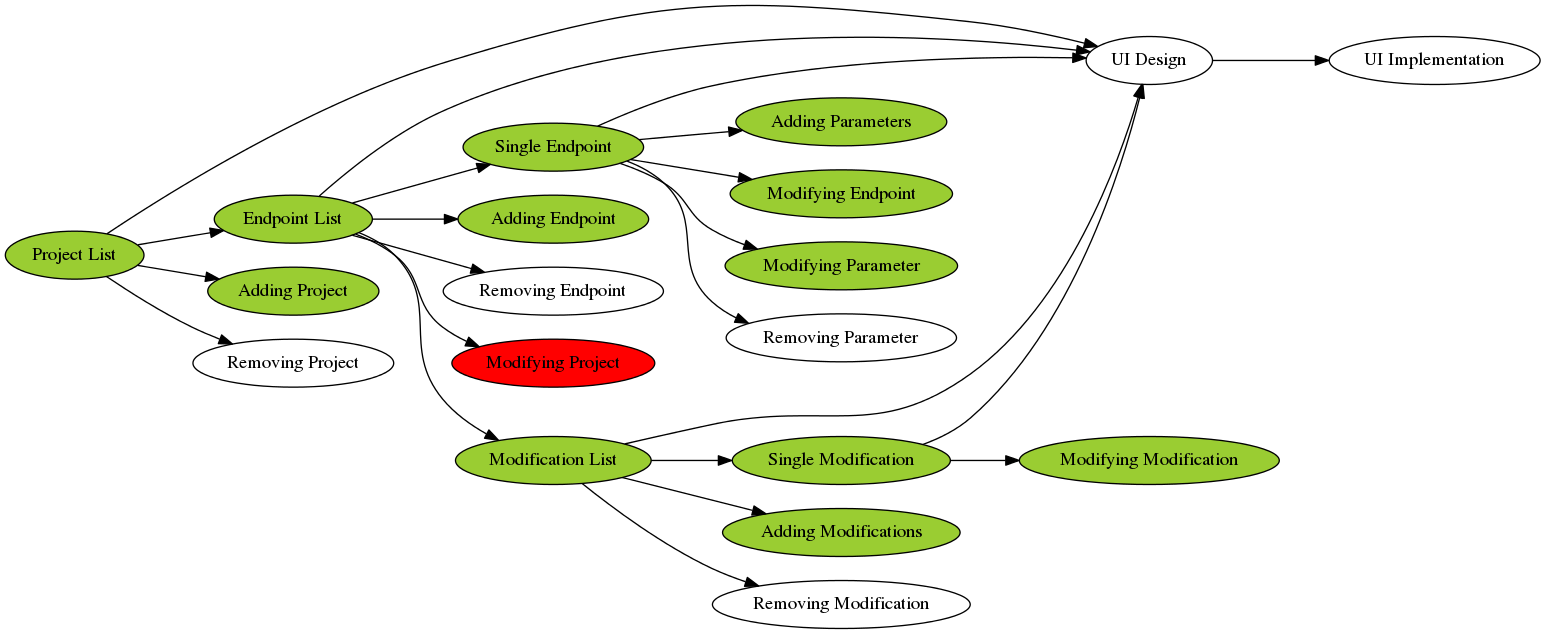
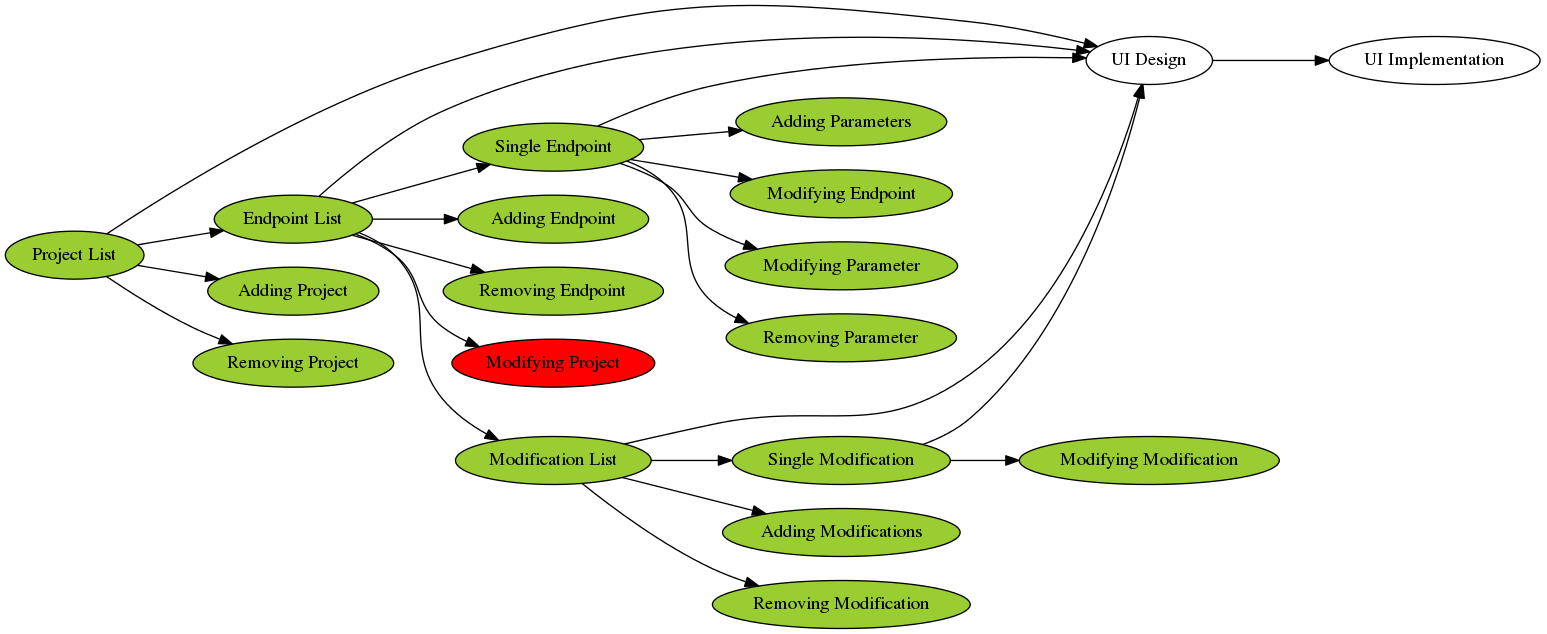
Removing projects, endpoints, params and modifications

diff --git a/resources/views/endpointListView.blade.php b/resources/views/endpointListView.blade.php
@@ -12,14 +12,33 @@
 
                 @foreach ($endpointList as $endpoint)
                     <h1>{{ $endpoint->name }}</h1>
-                    <a href="{{ action('SingleEndpointController@query', [ 'projName' => $projectName, 'endpointName' => $endpoint->name ]) }}">Test query</a>
-                    <a href="{{ action('SingleEndpointController@showEditable', [ 'projName' => $projectName, 'endpointName' => $endpoint->name ]) }}">Edit</a>
+
+                    <a href="<?php echo action('SingleEndpointController@query', [
+                            'projName' => $projectName,
+                            'endpointName' => $endpoint->name
+                        ]) ?>">Test query</a>
+
+                    <a href="<?php echo action('SingleEndpointController@showEditable', [
+                            'projName' => $projectName,
+                            'endpointName' => $endpoint->name
+                        ]) ?>">Edit</a>
+
+                    <a href="<?php echo action('SingleEndpointController@removeEndpoint', [
+                            'projName' => $projectName,
+                            'endpointName' => $endpoint->name
+                        ]) ?>">Remove</a>
+
                     <h2>Original url</h2>
                     {{$endpoint->originalUrl}}
 
                     <h2>Fixed parameters</h2>
                     @foreach ($endpoint->parameters as $param)
                         {{ $param->name.' -> '.$param->fixedValue }}
+                        <a href="<?php echo action('SingleEndpointController@removeParameter', [
+                                'projName' => $projectName,
+                                'endpointName' => $endpoint->name,
+                                'parameterId' => $param->id
+                            ]) ?>">Remove</a><br/>
                     @endforeach
 
                     <h2>Response changes</h2>

diff --git a/app/Http/routes.php b/app/Http/routes.php
@@ -26,6 +26,9 @@ Route::get('/test', function() {
 Route::get('/', 'ProjectListController@showList');
 Route::post('/', 'ProjectListController@addProject');
 
+// remove project
+Route::get('proj/{projName}/del', 'ProjectListController@removeProject');
+
 // list of endpoints
 Route::get('proj/{projName}', 'EndpointListController@showList');
 Route::post('proj/{projName}', 'EndpointListController@addEndpoint');
@@ -34,12 +37,21 @@ Route::post('proj/{projName}', 'EndpointListController@addEndpoint');
 Route::get('proj/{projName}/edit/{endpointName}', 'SingleEndpointController@showEditable');
 Route::post('proj/{projName}/edit/{endpointName}', 'SingleEndpointController@editEndpoint');
 
+// remove endpoint
+Route::get('proj/{projName}/edit/{endpointName}/del', 'SingleEndpointController@removeEndpoint');
+
+// remove endpoint parameter
+Route::get('proj/{projName}/edit/{endpointName}/param/del/{parameterId}', 'SingleEndpointController@removeParameter');
+
 // query endpoint
 Route::any('proj/{projName}/query/{endpointName}', 'SingleEndpointController@query');
 
 // list of modifications
 Route::get('proj/{projName}/mod', 'ModificationController@showList');
 Route::post('proj/{projName}/mod', 'ModificationController@addModification');
+
+// remove modification
+Route::get('proj/{projName}/mod/del/{modId}', 'ModificationController@removeModification');
 
 // edit modification
 Route::get('proj/{projName}/mod/{modId}', 'ModificationController@showEditable');

diff --git a/app/Http/Controllers/SingleEndpointController.php b/app/Http/Controllers/SingleEndpointController.php
@@ -82,6 +82,19 @@ class SingleEndpointController extends Controller
     }
 
 
+    public function removeParameter(Request $request, $projectName, $endpointName, $parameterId)
+    {
+        // get parameter
+        $parameter = \App\Parameter::where('id', '=', $parameterId)->firstOrFail();
+
+        // remove parameter
+        $parameter->delete();
+
+        // back to previous page
+        return redirect()->back();
+    }
+
+
     public function editEndpoint(Request $request, $projectName, $endpointName)
     {
         // validate data
@@ -124,5 +137,19 @@ class SingleEndpointController extends Controller
         return redirect()->action('EndpointListController@showList', [
             'projName' => $projectName
         ]);
+    }
+
+
+    public function removeEndpoint(Request $request, $projName, $endpointName)
+    {
+        // get endpoint object
+        $proj = \App\Project::where('name', '=', $projName)->firstOrFail();
+        $endpoint = $proj->endpoints()->where('name', '=', $endpointName)->firstOrFail();
+
+        // remove endpoint
+        $endpoint->delete();
+
+        // back to previous page
+        return redirect()->back();
     }
 }

diff --git a/resources/views/modificationListView.blade.php b/resources/views/modificationListView.blade.php
@@ -4,7 +4,14 @@
 @section('content')
     @foreach($modList as $mod)
         <h1>{{ $mod->name }}</h1>
-        <a href="{{ action('ModificationController@showEditable', ['projName' => $projName, 'modId' => $mod->id]) }}">Edit</a><br/>
+        <a href="<?php echo action('ModificationController@showEditable', [
+                'projName' => $projName,
+                'modId' => $mod->id
+            ]) ?>">Edit</a>
+        <a href="<?php echo action('ModificationController@removeModification', [
+                'projName' => $projName,
+                'modId' => $mod->id
+            ]) ?>">Remove</a><br/>
         Path:<br/>
         {{ $mod->path }}<br/>
         Value:<br/>
@@ -15,6 +22,7 @@
     <form method="post" action="<?php action('ModificationController@addModification', [
             'projName' => $projName
         ])?>">
+
         {{ csrf_field() }}
 
         Name:<br/>

diff --git a/resources/views/projectListView.blade.php b/resources/views/projectListView.blade.php
@@ -9,7 +9,12 @@
         <div class="container">
             <div class="content">
                 @foreach ($projectList as $project)
-                    <a href="{{ action('EndpointListController@showList', [ 'projName' => $project->name ]) }}" >{!! $project->name !!}</a><br/>
+                    <a href="<?php echo action('EndpointListController@showList', [
+                            'projName' => $project->name
+                        ]) ?>" >{!! $project->name !!}</a>
+                    <a href="<?php echo action('ProjectListController@removeProject', [
+                            'projName' => $project->name
+                        ]) ?>" >Remove</a><br/>
                 @endforeach
             </div>
 

diff --git a/app/Http/Controllers/ProjectListController.php b/app/Http/Controllers/ProjectListController.php
@@ -19,6 +19,7 @@ class ProjectListController extends Controller
         ]);
     }
 
+
     public function addProject(Request $request)
     {
         // validate data
@@ -30,6 +31,19 @@ class ProjectListController extends Controller
         $project->name = $request->input('projectName');
         $project->save();
 
+        return redirect()->back();
+    }
+
+
+    public function removeProject(Request $request, $projName)
+    {
+        // get project object
+        $project = \App\Project::where('name', '=', $projName)->firstOrFail();
+
+        // remove project
+        $project->delete();
+
+        // back to previous view
         return redirect()->back();
     }
 }

diff --git a/app/Providers/AppServiceProvider.php b/app/Providers/AppServiceProvider.php
@@ -3,6 +3,8 @@
 namespace App\Providers;
 
 use Illuminate\Support\ServiceProvider;
+use App\Project;
+use App\Endpoint;
 
 class AppServiceProvider extends ServiceProvider
 {
@@ -13,7 +15,17 @@ class AppServiceProvider extends ServiceProvider
      */
     public function boot()
     {
-        //
+        // removing project
+        Project::deleting(function ($project)
+        {
+            $project->endpoints()->delete();
+        });
+
+        // removing endpoint
+        Endpoint::deleting(function ($endpoint)
+        {
+            $endpoint->parameters()->delete();
+        });
     }
 
     /**

diff --git a/app/Http/Controllers/ModificationController.php b/app/Http/Controllers/ModificationController.php
@@ -46,6 +46,19 @@ class ModificationController extends Controller
     }
 
 
+    public function removeModification(Request $request, $projName, $modId)
+    {
+        // get modification
+        $modification = \App\Modification::where('id', '=', $modId)->firstOrFail();
+
+        // delete modification
+        $modification->delete();
+
+        // show list of modifications
+        return redirect()->back();
+    }
+
+
     public function showEditable(Request $request, $projName, $modId)
     {
         // get modification

diff --git a/app/Http/Controllers/EndpointListController.php b/app/Http/Controllers/EndpointListController.php
@@ -20,6 +20,7 @@ class EndpointListController extends Controller
         ]);
     }
 
+
     public function addEndpoint(Request $request, $projectName)
     {
         // validate data
